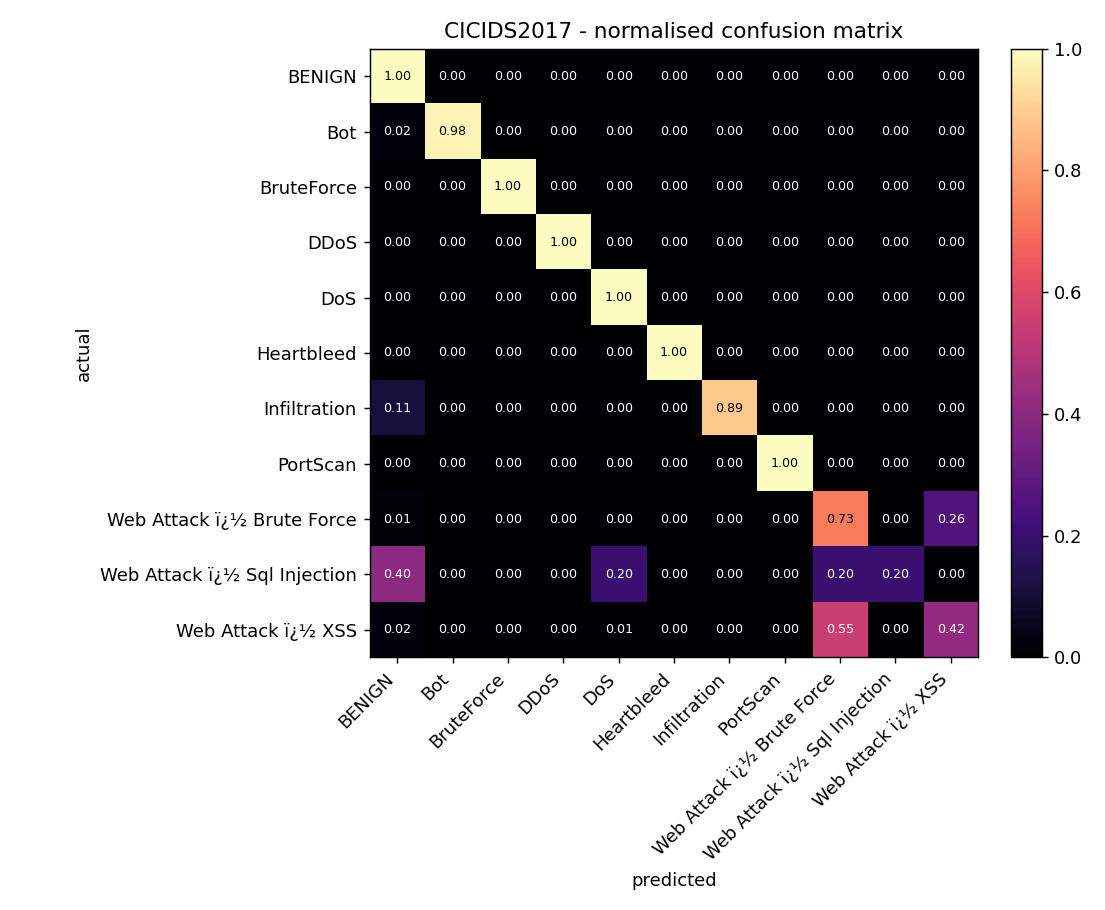
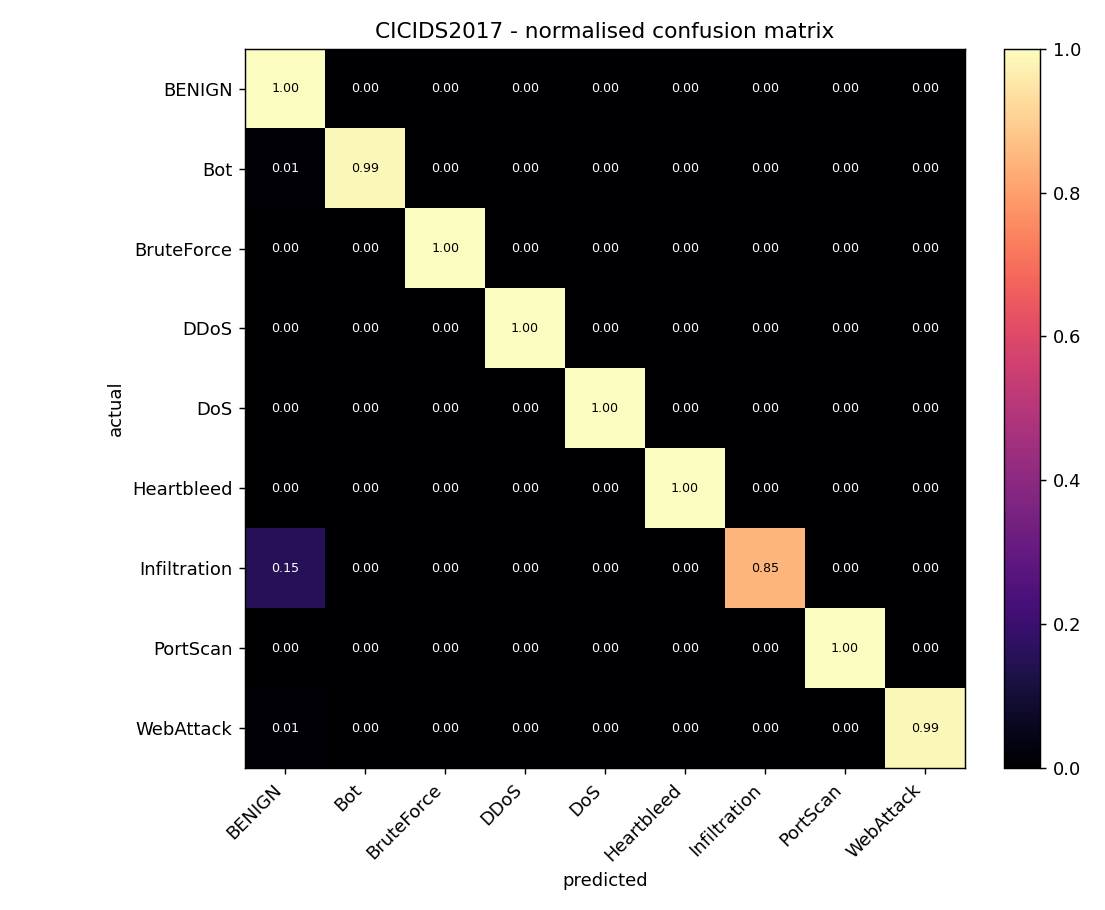
Retrain model with fixed labels; refresh model card and quoted metrics
9 classes, accuracy 0.9992, macro-F1 0.9858 on 190,660 held-out flows
(was 11 classes / macro-F1 0.8486 because web attacks were split). Updates
frontend/client/public/model-card.json + confusion-matrix.png and the figures
quoted in README, STUDY_GUIDE and notes.

Claude-Session: https://claude.ai/code/session_01XboXt6y9cf5i6XoTe2rM2m

diff --git a/README.md b/README.md
@@ -61,7 +61,7 @@ Demo logins: `admin@demo.com / admin123`, `pro@demo.com / pro123`,
 - Trained by `python-ml/train.py` on the CICIDS2017 dataset (download the
   "MachineLearningCSV" archive into `python-ml/data/cicids2017/`).
 - A `RandomForestClassifier` (120 trees) inside a scikit-learn `Pipeline` with
-  median imputation; ~99.8% accuracy on a held-out test set.
+  median imputation; 99.9% accuracy and 0.986 macro-F1 over 9 classes on a held-out test set of 190,660 flows.
 - `python-ml/export_model_card.py` turns the training artifacts into the data
   shown on the dashboard's **`/model`** page.
 
